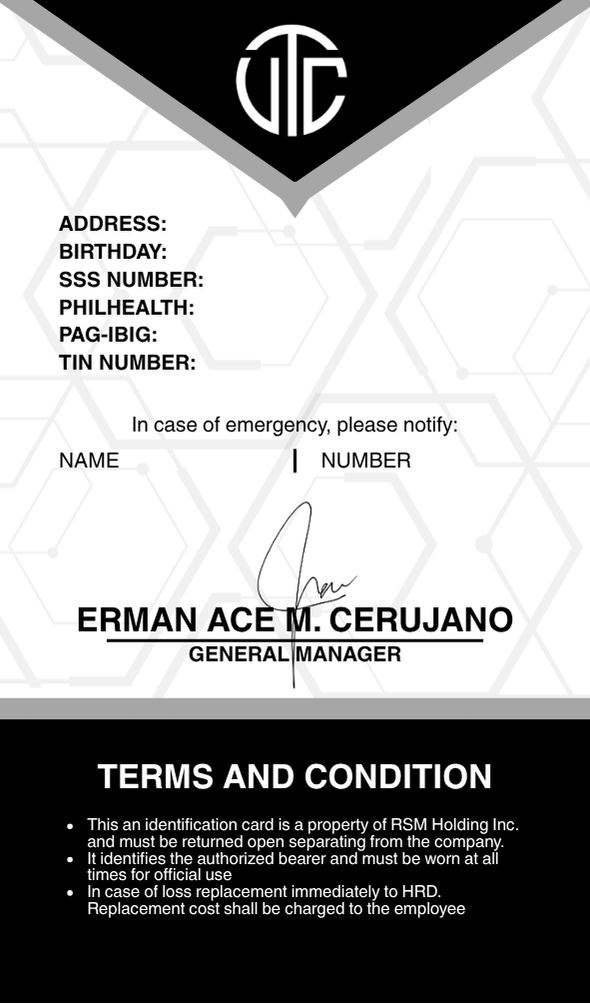
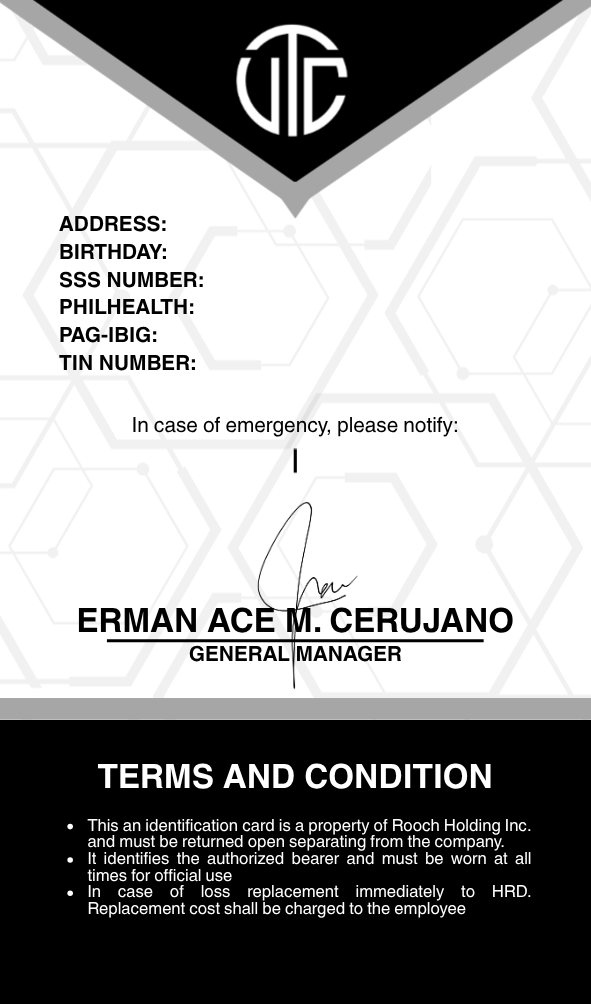
update the vertex id

diff --git a/frontend/view_id.html b/frontend/view_id.html
@@ -92,6 +92,7 @@
             <div style="display: flex; align-items: center; gap: 8px;">
                 <label for="templateSelect" style="font-weight: 600; font-size: 14px; color: #475569;">Template:</label>
                 <select id="templateSelect" style="padding: 6px 12px; border-radius: 6px; border: 1px solid #cbd5e1; font-family: inherit; font-size: 14px; font-weight: 600; color: #0f172a; background: #fff; cursor: pointer;">
+                    <option value="VTC">VTC</option>
                     <option value="VERTEX">VERTEX</option>
                     <option value="MEN2">MEN2</option>
                     <option value="RSM">RSM</option>
@@ -168,9 +169,13 @@
                 NAME_Y: 626,
                 POS_Y: 676,
                 EMP_SIGN: { y: 835, w: 320, h: 80 },
-                FONT: "'Poppins', sans-serif"
+                FONT: "'Poppins', sans-serif",
+                nameStretchX: 1.0,
+                nameStretchY: 1.35,
+                nameSize: 32
             }
         };
+        LAYOUTS.VTC = LAYOUTS.VERTEX;
 
         /* ---------- STATE ---------- */
         const state = {
@@ -416,7 +421,7 @@
                     drawCircleImage(ctx, LOADED.user, PHOTO.cx, PHOTO.cy, PHOTO.d);
                 }
 
-                if (state.showRing && state.companyCode !== 'VERTEX') {
+                if (state.showRing && state.companyCode !== 'VERTEX' && state.companyCode !== 'VTC') {
                     ctx.beginPath();
                     if (PHOTO.shape === 'square') {
                         const r = PHOTO.d / 2;
@@ -508,19 +513,24 @@
                     ctx.fillText(u.email || '', infoValueX, 830);
 
                     ctx.restore();
-                } else if (state.companyCode === 'VERTEX') {
+                } else if (state.companyCode === 'VERTEX' || state.companyCode === 'VTC') {
                     const fontFam = layout.FONT || FONT_FAMILY;
                     const nameStr = FULLNAME(u);
 
-                    // VERTEX NAME (above horizontal line - naturally proportioned, auto-scaling if needed)
+                    // VERTEX NAME (above horizontal line - taller font proportion, auto-scaling if needed)
                     ctx.save();
-                    let nameSz = 30;
+                    ctx.translate(DESIGN.w / 2, NAME_Y);
+                    const stretchX = layout.nameStretchX || 1.0;
+                    const stretchY = layout.nameStretchY || 1.35;
+                    ctx.scale(stretchX, stretchY);
+
+                    let nameSz = layout.nameSize || 32;
                     ctx.font = `800 ${nameSz}px ${fontFam}`;
-                    while (ctx.measureText(nameStr).width > (DESIGN.w - 50) && nameSz > 16) {
+                    while ((ctx.measureText(nameStr).width * stretchX) > (DESIGN.w - 50) && nameSz > 16) {
                         nameSz--;
                         ctx.font = `800 ${nameSz}px ${fontFam}`;
                     }
-                    drawTextWithOutline(ctx, nameStr, DESIGN.w / 2, NAME_Y, 'center', '#000000', 800, nameSz, false);
+                    drawTextWithOutline(ctx, nameStr, 0, 0, 'center', '#000000', 800, nameSz, false);
                     ctx.restore();
 
                     // VERTEX POSITION (below horizontal line)
@@ -643,7 +653,7 @@
                     }
 
                     ctx.restore();
-                } else if (state.companyCode === 'VERTEX') {
+                } else if (state.companyCode === 'VERTEX' || state.companyCode === 'VTC') {
                     // VERTEX Back details
                     const valStartX = 220;
                     ctx.save();
@@ -670,29 +680,34 @@
                     drawBackValue(u.tin || '', 369);
 
                     // Emergency Contact Section
-                    // Below NAME (x=60) and NUMBER (x=325) headers at y≈460, and above GM name at y≈608
-                    const emY = 520;
+                    // Vertically centered with the '|' separator (y≈449-471), nicely flanking the bar
+                    const emY = 466;
                     const emName = (u.e_name || '').trim().toUpperCase();
                     const emContact = (u.e_contact || '').trim();
+
+                    ctx.save();
+                    ctx.textAlign = 'center';
+                    ctx.textBaseline = 'alphabetic';
+                    ctx.fillStyle = '#111111';
 
                     if (emName) {
                         let sz = 18;
                         ctx.font = `700 ${sz}px ${FONT_FAMILY}`;
-                        while (ctx.measureText(emName).width > 220 && sz > 12) {
+                        while (ctx.measureText(emName).width > 240 && sz > 11) {
                             sz--;
                             ctx.font = `700 ${sz}px ${FONT_FAMILY}`;
                         }
-                        ctx.fillText(emName, 60, emY);
+                        ctx.fillText(emName, DESIGN.w / 4, emY);
                     }
 
                     if (emContact) {
                         let sz = 18;
                         ctx.font = `700 ${sz}px ${FONT_FAMILY}`;
-                        while (ctx.measureText(emContact).width > 220 && sz > 12) {
+                        while (ctx.measureText(emContact).width > 240 && sz > 11) {
                             sz--;
                             ctx.font = `700 ${sz}px ${FONT_FAMILY}`;
                         }
-                        ctx.fillText(emContact, 325, emY);
+                        ctx.fillText(emContact, (DESIGN.w * 3) / 4, emY);
                     }
 
                     ctx.restore();
@@ -756,7 +771,7 @@
             }
 
             function setCompany(code) {
-                code = (code || 'VERTEX').toUpperCase();
+                code = (code || 'VTC').toUpperCase();
                 state.companyCode = code;
 
                 if (code === 'RSM') {
@@ -765,14 +780,15 @@
                     state.companyPrefix = 'HVN';
                 } else if (code === 'RC2') {
                     state.companyPrefix = 'RC2';
-                } else if (code === 'VERTEX') {
-                    state.companyPrefix = 'VERTEX';
+                } else if (code === 'VERTEX' || code === 'VTC') {
+                    state.companyPrefix = 'VTC';
                 } else {
                     state.companyPrefix = 'MEN2';
                 }
 
                 // Dynamically select background images based on the company code
-                const codeLower = code.toLowerCase();
+                let codeLower = code.toLowerCase();
+                if (codeLower === 'vtc') codeLower = 'vertex';
                 state.images.bgF = `image/front-id-${codeLower}.png`;
                 state.images.bgB = `image/back-id-${codeLower}.png`;
             }
@@ -780,11 +796,11 @@
             try {
                 const cfg = await fetchJSON('/config');
                 const queryCode = qs('company') || qs('template');
-                const initialCode = queryCode || cfg.COMPANY_CODE || 'VERTEX';
+                const initialCode = queryCode || cfg.COMPANY_CODE || 'VTC';
                 setCompany(initialCode);
             } catch (e) {
                 const queryCode = qs('company') || qs('template');
-                setCompany(queryCode || 'VERTEX');
+                setCompany(queryCode || 'VTC');
             }
 
             // Sync template selector UI

diff --git a/frontend/department.html b/frontend/department.html
@@ -264,13 +264,18 @@
     }
 
     // Initialize on load
-    document.addEventListener('DOMContentLoaded', () => {
+    document.addEventListener('DOMContentLoaded', async () => {
         loadDepts();
-        
-        // Setup brand name if initConfig exists in script.js
-        if (typeof COMPANY_NAME !== 'undefined') {
-            document.getElementById('brandName').textContent = COMPANY_NAME;
-        }
+        try {
+            const res = await fetch('/config');
+            if (res.ok) {
+                const cfg = await res.json();
+                if (cfg.COMPANY_NAME) {
+                    const b = document.getElementById('brandName');
+                    if (b) b.textContent = cfg.COMPANY_NAME;
+                }
+            }
+        } catch {}
     });
 </script>
 </body>

diff --git a/backend/server_users.js b/backend/server_users.js
@@ -16,7 +16,7 @@ const PORT = process.env.PORT || 3002;
 const DIRECTUS = `http://${process.env.API_IP || 'localhost'}:${process.env.API_PORT || '8091'}/items`;
 const BASE_FILE_HOST = process.env.BASE_FILE_HOST || process.env.FILE_HOST || '';
 const COMPANY_NAME = process.env.COMPANY_NAME || 'VERTEX';
-const COMPANY_CODE = process.env.COMPANY_CODE || 'VERTEX';
+const COMPANY_CODE = process.env.COMPANY_CODE || 'VTC';
 
 const DIRECTUS_TOKEN = (() => {
     // 1. Check .env variable first
